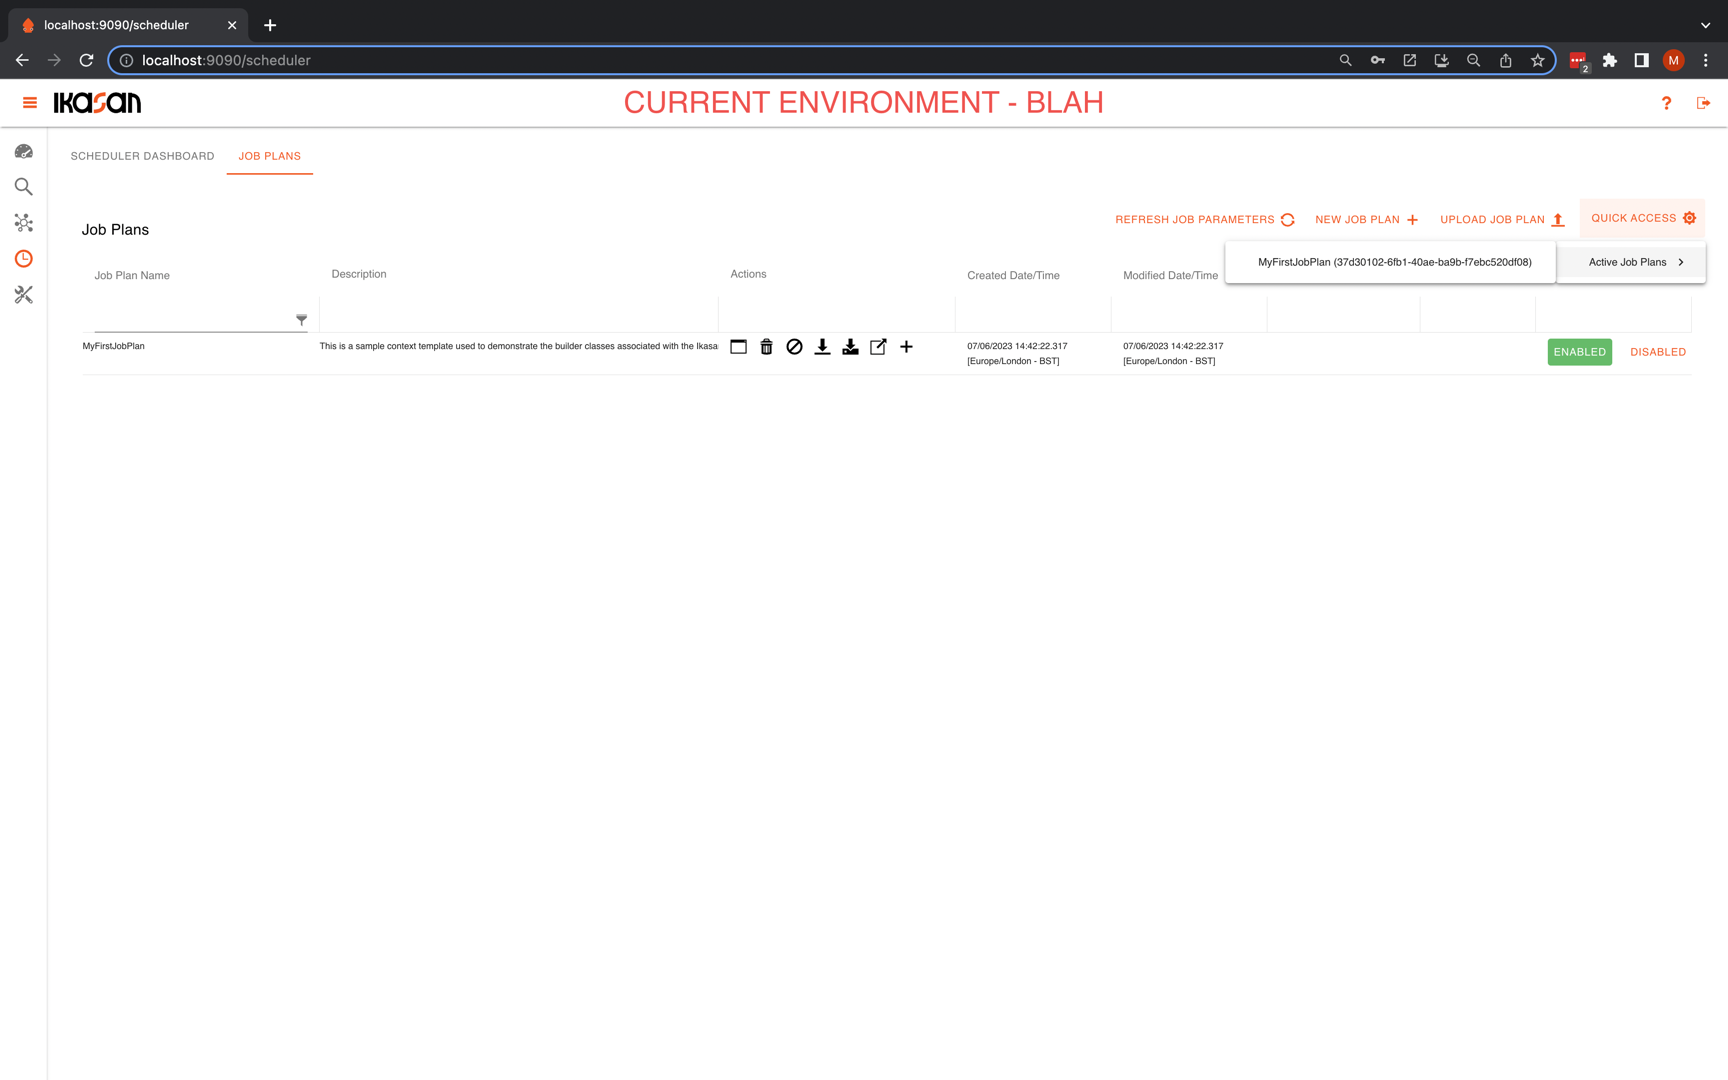
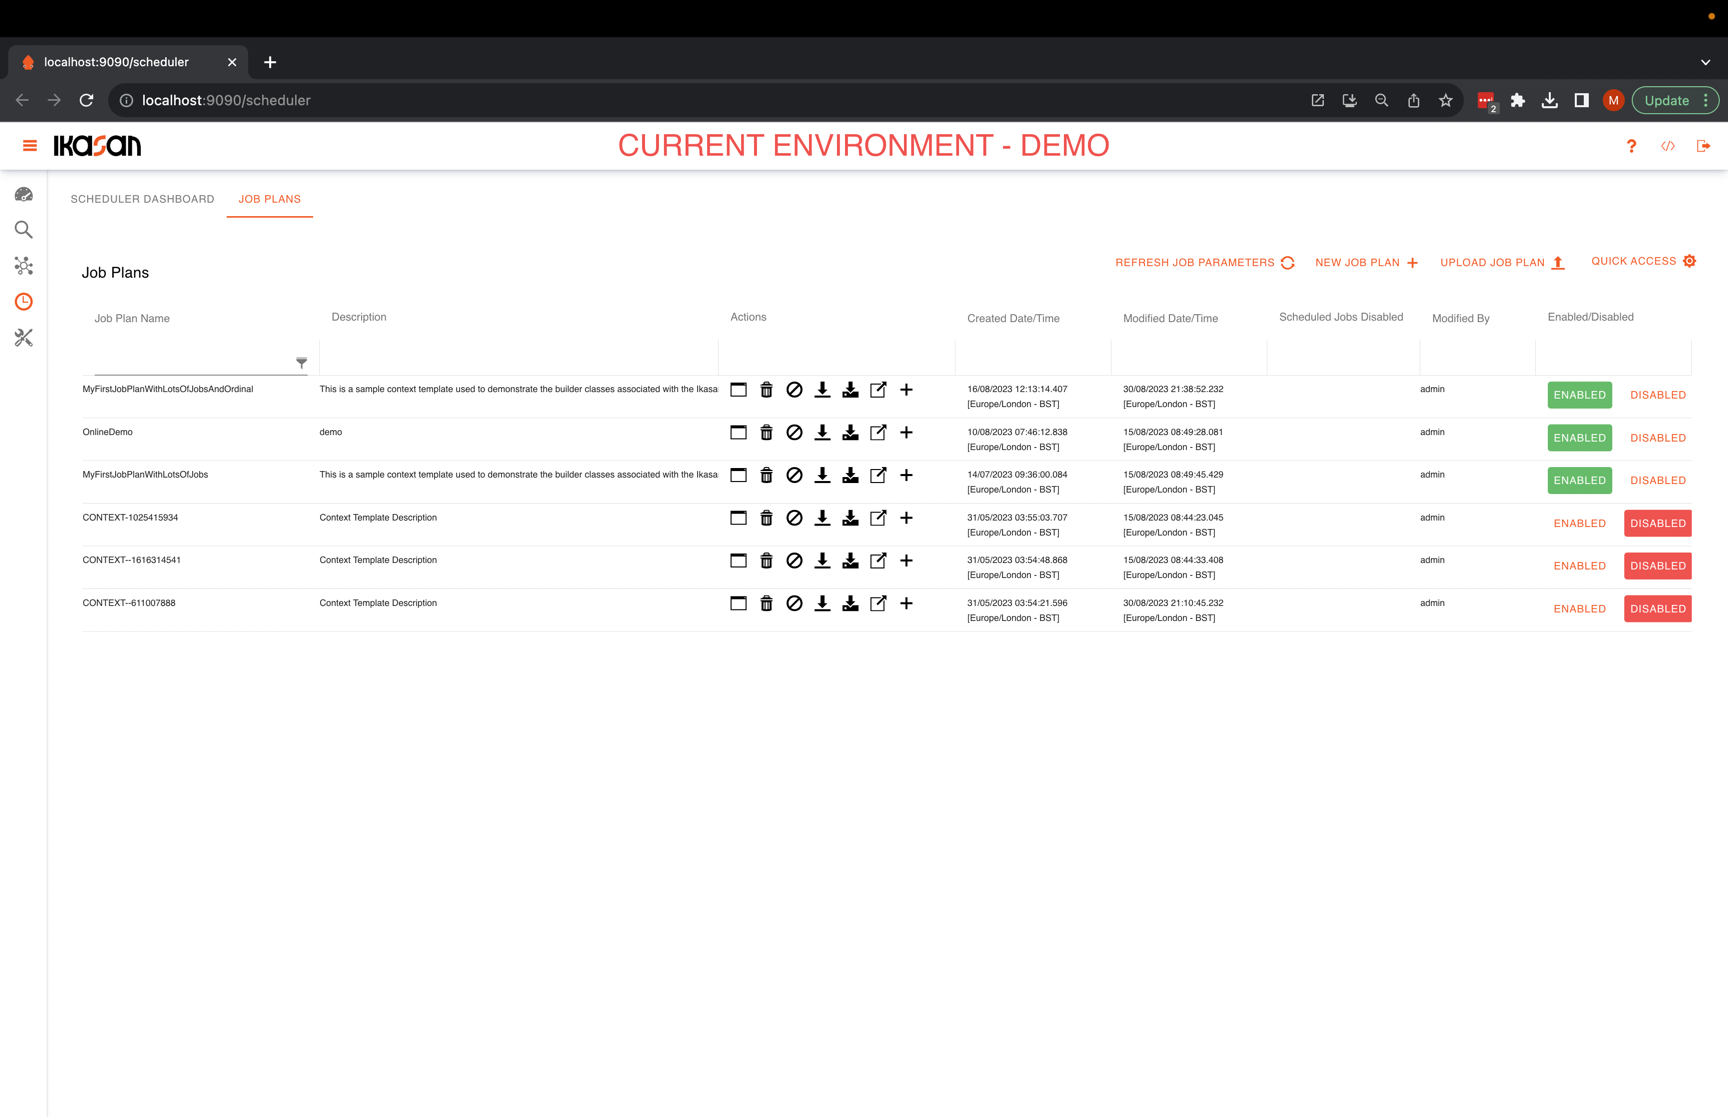
IKASAN-2222 focusing on the scheduler dashboard screen.

diff --git a/ikasaneip/visualisation/ikasan-scheduler/dashboard/scheduler-dashboard.md b/ikasaneip/visualisation/ikasan-scheduler/dashboard/scheduler-dashboard.md
@@ -1,6 +1,11 @@
 ![IKASAN](../../../developer/docs/quickstart-images/Ikasan-title-transparent.png)
 
-# Ikasan Enterprise Scheduler - Dashboard
+# Ikasan Enterprise Scheduler Dashboard Landing Screen
+The `Ikasan Enterprise Scheduler Dashboard Landing Screen` contains two tabs:
+- Dashboard Tab
+- Job Plan Tab
+
+## Ikasan Enterprise Scheduler Dashboard Landing Screen - Dashboard Tab
 The Ikasan Enterprise Scheduler Dashboard provides is a single page view that provides details of all scheduler related activity. 
 It comprises the following 3 main sections.
 - Scheduler Agents
@@ -11,7 +16,7 @@ It comprises the following 3 main sections.
 
 *Ikasan Enterprise Scheduler Dashboard*
 
-## Scheduler Agents
+### Scheduler Agents
 The Scheduler Agent section provides a list of agents that are associated with the Ikasan Enterprise Scheduler Dashboard. This list can be
 filtered using the filter text box in the right top of the section.
 
@@ -24,29 +29,104 @@ agent link on the dialog. It is asle possible to access the logs associated with
 
 ![img.png](../../images/scheduler-dashboard-view-agent-details.png)
 
-*Ikasan Enterprise Scheduler Agent Dialog*
+*Ikasan Enterprise Scheduler Agent dialog*
 
 After clicking the `Download Log File` button, a dialog containing a list of all available logs is presented. From here select the
 file you wish to download.
 
 ![img.png](../../images/scheduler-dashboard-view-agent-details-logs.png)
 
-*Ikasan Enterprise Scheduler Agent Log Files Dialog*
+*Ikasan Enterprise Scheduler Agent log files dialog*
 
-## Scheduler Agent Jobs States
+### Scheduler Agent Jobs States
+
+The Ikasan Enterprise Scheduler Agent jobs state card on the Ikasan Enterprise Scheduler Dashboard provides an aggregated view
+of the state of all jobs across all agents deployed in that environment.
 
 ![img.png](../../images/agent-job-state-card.png)
 
+*Ikasan Enterprise Scheduler Agent jobs state card*
+
+It is possible to drill into the individual jobs by clicking on the arrow to the right of the status count, and use the filtering
+text field to find a specific job.
+
 ![img.png](../../images/agent-job-state-card-drill-down.png)
 
-![img.png](../../images/scheduler-dashboard-view-future-instances.png)
+*Ikasan Enterprise Scheduler Agent jobs state card drill down*
+
+### Job Plan Instances
+The Job Plan Instances Card on the Ikasan Enterprise Scheduler Dashboard contains two tabs:
+- **Active Job Plan Instances Tab**: This tab contains a grid with all currently running job plan instances and displays the states for each job in the plan.
+- **Future Planned Job Plan Instances Tab**: This tab contains a prepared instance of each enabled job plan, that is the next instance of that job plan that is due to run in the future.
+
+#### Active Job Plan Instances Tab
+The Active Job Plan Instances Tab contains a grid with all currently running job plan instances and displays the states 
+for each job in the plan. The grid can be filtered on the `Job Plan Name` and `Job Plan Instance Id`. The `Job Status Counts` 
+column contains a status count for all the jobs in the job plan instance, and all of the status icons can be clicked in
+order drill into more details of the `Job Plan Instance`. There are also general buttons that clear the grid filters and refresh
+the grid contents, as well as a button that opens the Job Plan Instances Card in full screen mode in a new browser tab.
+
+![img.png](../../images/active-job-plans.png)
+
+*Active job plan instances*
+
+#### Future Planned Job Plan Instances Tab
+
+The Future Planned Job Plan Instances Tab contains a grid with a prepared instance of each enabled `job plan`, that is the next 
+instance of that job plan that is due to run in the future. This allows users to modify the state of the `job plan instance`
+prior to the `job plan` becoming active. For example, it may be desirable hold some or all jobs, or skip some of jobs in a `job plan instance`.
+The grid can be filtered on the `Job Plan Name` and `Job Plan Instance Id` and sorted based on 
+the `Context Instance Start Date/Time`. There are also general buttons that clear the grid filters and refresh
+the grid contents, as well as a button that opens the Job Plan Instances Card in full screen mode in a new browser tab.
+
+![img.png](../../images/future-planned-job-plan-instances.png)
+
+*Future planned job plan instances*
+
+## Ikasan Enterprise Scheduler Dashboard Landing Screen - Job Plan Tab
+The `Ikasan Enterprise Scheduler Dashboard Landing Screen Job Plan Tab` comprises a grid containing all `job plans` that
+have been deployed to the dashboard along with the following buttons:
+- Refresh Job Parameters - when pressed the job parameters are refreshed from the underlying properties used to populate them.
+- New Job Plan - when presses the user is presented with a dialog that allows them to create a new `job plan`.
+- Upload Job Plan - when pressed the user is presented with a dialog that allows them to upload a `job plan`.
+- Quick Access - allows quick access of all currently running job plan instances.
+
+The `job plan grid` can be filtered based upon the `job plan name` and there is also the opportunity to `disable` and `enable` the 
+job plan. There are also a number of [actions](./job-plans/job-plan-actions.md) that can be performed against each job plan.
+
+### Enabling and Disabling Job Plans
+When a job plan is `disabled`, the following occurs:
+1. Any running instances of the `job plan` are `ended`.
+2. An running instances of the `job plan` are de-registered from the relevant agents.
+3. All `jobs` associated with the `job plan` are removed from the relevant agents.
+4. The `job plan` is marked as disabled and no further instances of it will be created.
+
+When a job plan is `enabled`, the following occurs:
+1. All `jobs` associated with the `job plan` are added to the relevant agents.
+2. The `job plan` is marked as enabled and instances of it will be created using the schedule associated it.
+
+**Note:** an instance of the enabled `job plan` will not automatically be created until it is next scheduled to run. If 
+an instance is required beforehand, it will be necessary to create it manually. 
 
 ![img.png](../../images/scheduler-dashboard-job-plan-tab.png)
 
+### New Job Plan
+When the `New Job Plan` button is pressed the `New Job Plan Template` is presented to the screen. In order to creat a
+`New Job Plan Template` all mandatory fields must be provided:
+- **Job Plan Name:** A unique name for the `job plan`.
+- **Job Plan Description:** A description for the `job plan`.
+- **Time Window Start Cron Expression:** A quartz cron expression defining the schedule upon which the `job plan` will start.
+- **Duration Days:** The number of days each instance of the `job plan` will run.
+- **Duration Hours:** The number of hours each instance of the `job plan` will run.
+- **Duration Minutes:** The number of minutes each instance of the `job plan` will run.
+- **Timezone:** The timezone that the `job plan` will run in.
+- **Tree View Expand Level:** The default expand level `job plan intance tree` for the job plan.
+- **Concurrent:** Flag to indicate if multiple instances of the `job plan` can run concurrently.
+- **Alias:** Flag to indicate if job name aliases should be  used for jobs in the`job plan`.
+
+There is also the opportunity to define blackout windows that prevent job plan instances from being created within those time windows.   
+
 ![img.png](../../images/new-job-plan-template.png)
 
-![img_1.png](../../images/upload-job-plan.png)
-
-![img.png](../../images/quick-access.png)
 
 

diff --git a/ikasaneip/visualisation/ikasan-scheduler/dashboard/job-plan-instances/job-plan-instance-tree-view-tab.md b/ikasaneip/visualisation/ikasan-scheduler/dashboard/job-plan-instances/job-plan-instance-tree-view-tab.md
@@ -14,19 +14,32 @@ Tree View component.
 
 ![img.png](../../../images/job-plan-instance-tree-view.png)
 
+*Ikasan Enterprise Scheduler Dashboard job plan instance tree view*
+
+Any nodes in the tree can be expanded and the status of each of the jobs can be seen. The status at any node in the tree
+wraps up to its parent in order for jobs or various statuses to be easily navigated to.
+
 ![img.png](../../../images/job-plan-instance-tree-view-error.png)
+
+*Ikasan Enterprise Scheduler Dashboard job plan instance tree view with nodes in error*
 
 Clicking on the ![img.png](../../../images/output-logs-icon.png) icon next to a Command Execution Job instance will open the process log dialog enabling users to be able to 
 view any logging that is associated with the underlying job that is being executed.
 ![img.png](../../../images/process-output-logs.png)
 
+*Ikasan Enterprise Scheduler Dashboard job plan instance process output logs*
+
 Clicking on the ![img.png](../../../images/error-log-icon.png) icon next to a Command Execution Job instance will open the process error log dialog enabling users to be able to
 view any error logging that is associated with the underlying job that is being executed.
 ![img.png](../../../images/process-error-logs.png)
 
+*Ikasan Enterprise Scheduler Dashboard job plan instance tree view process error logs*
+
 Clicking on the ![img.png](../../../images/process-event-icon.png) icon next to a Command Execution Job instance will open the process event dialog enabling users to be able to
 view the process event that was received from the agent. The process event contains information about the process that was executed by the agent.
 ![img.png](../../../images/scheduled-process-event-dialog.png)
+
+*Ikasan Enterprise Scheduler Dashboard job plan instance tree view process event*
 
 Clicking on the ![img.png](../../../images/process-execution-details.png) icon next to a Command Execution Job instance will open the process execution dialog enabling users to be able to
 view the process execution environment. The process execution environment contains information about thow the process was seeded to run by the agent.
@@ -37,3 +50,5 @@ It contains the following information:
 - **Process Command**: The actual command that is being executed.
 
 ![img.png](../../../images/process-execution-details-dialog.png)
+
+*Ikasan Enterprise Scheduler Dashboard job plan instance tree view process execution details*

diff --git a/ikasaneip/visualisation/ikasan-scheduler/dashboard/job-plans/job-plan-actions.md b/ikasaneip/visualisation/ikasan-scheduler/dashboard/job-plans/job-plan-actions.md
@@ -1,0 +1,14 @@
+![IKASAN](../../../../developer/docs/quickstart-images/Ikasan-title-transparent.png)
+
+# Ikasan Enterprise Scheduler - Job Plan Actions
+There are a number of actions that can be performed on a `job plan`. The table below defines those actions. 
+
+| Icon                                                            | Action Performed                                                                        |
+|-----------------------------------------------------------------|-----------------------------------------------------------------------------------------|
+| ![img.png](../../../images/open-job-icon.png)                   | This action will open the job plan dialog.                                              |
+| ![img.png](../../../images/delete-job-plan.png)                 | This action will delete the job plan.                                                   |
+| ![img.png](../../../images/disable-scheduled-jobs-job-plan.png) | This action will diable all schedule based jobs in the job plan.                        |
+| ![img.png](../../../images/download-job-plan.png)               | This action will download the job plan with all evironment values.                      |
+| ![img.png](../../../images/download-job-plan-with-tokens.png)   | This action will download the job plan with all evironment values replaced with tokens. |
+| ![img.png](../../../images/open-job-plan-in-new-tab.png)        | This action will open the job plan in a new tab.                                        |
+| ![img.png](../../../images/create-new-job-plan-instance.png)    | This action will create a new instance of the job plan and will open it.                |

diff --git a/ikasaneip/visualisation/ikasan-scheduler/developer/mvn-archetypes/ikasan-scheduler-distribution-deployment-demo/Readme.md b/ikasaneip/visualisation/ikasan-scheduler/developer/mvn-archetypes/ikasan-scheduler-distribution-deployment-demo/Readme.md
@@ -1,4 +1,4 @@
-![Problem Domain](../../docs/quickstart-images/Ikasan-title-transparent.png)
+![Problem Domain](../../../../../developer/docs/quickstart-images/Ikasan-title-transparent.png)
 # Ikasan Enterprise Scheduler Distribution Deployment Demo
 
 This archetype creates a very simple maven project that assists in the deployment of the Ikasan Enterprise Scheduler

diff --git a/ikasaneip/visualisation/ikasan-scheduler/developer/mvn-archetypes/ikasan-job-plan-builder-demo/Readme.md b/ikasaneip/visualisation/ikasan-scheduler/developer/mvn-archetypes/ikasan-job-plan-builder-demo/Readme.md
@@ -1,4 +1,4 @@
-![Problem Domain](../../docs/quickstart-images/Ikasan-title-transparent.png)
+![Problem Domain](../../../../../developer/docs/quickstart-images/Ikasan-title-transparent.png)
 # Ikasan Enterprise Scheduler Job Plan Builder Demo
 
 This archetype creates a project that provides 2 sample features:
